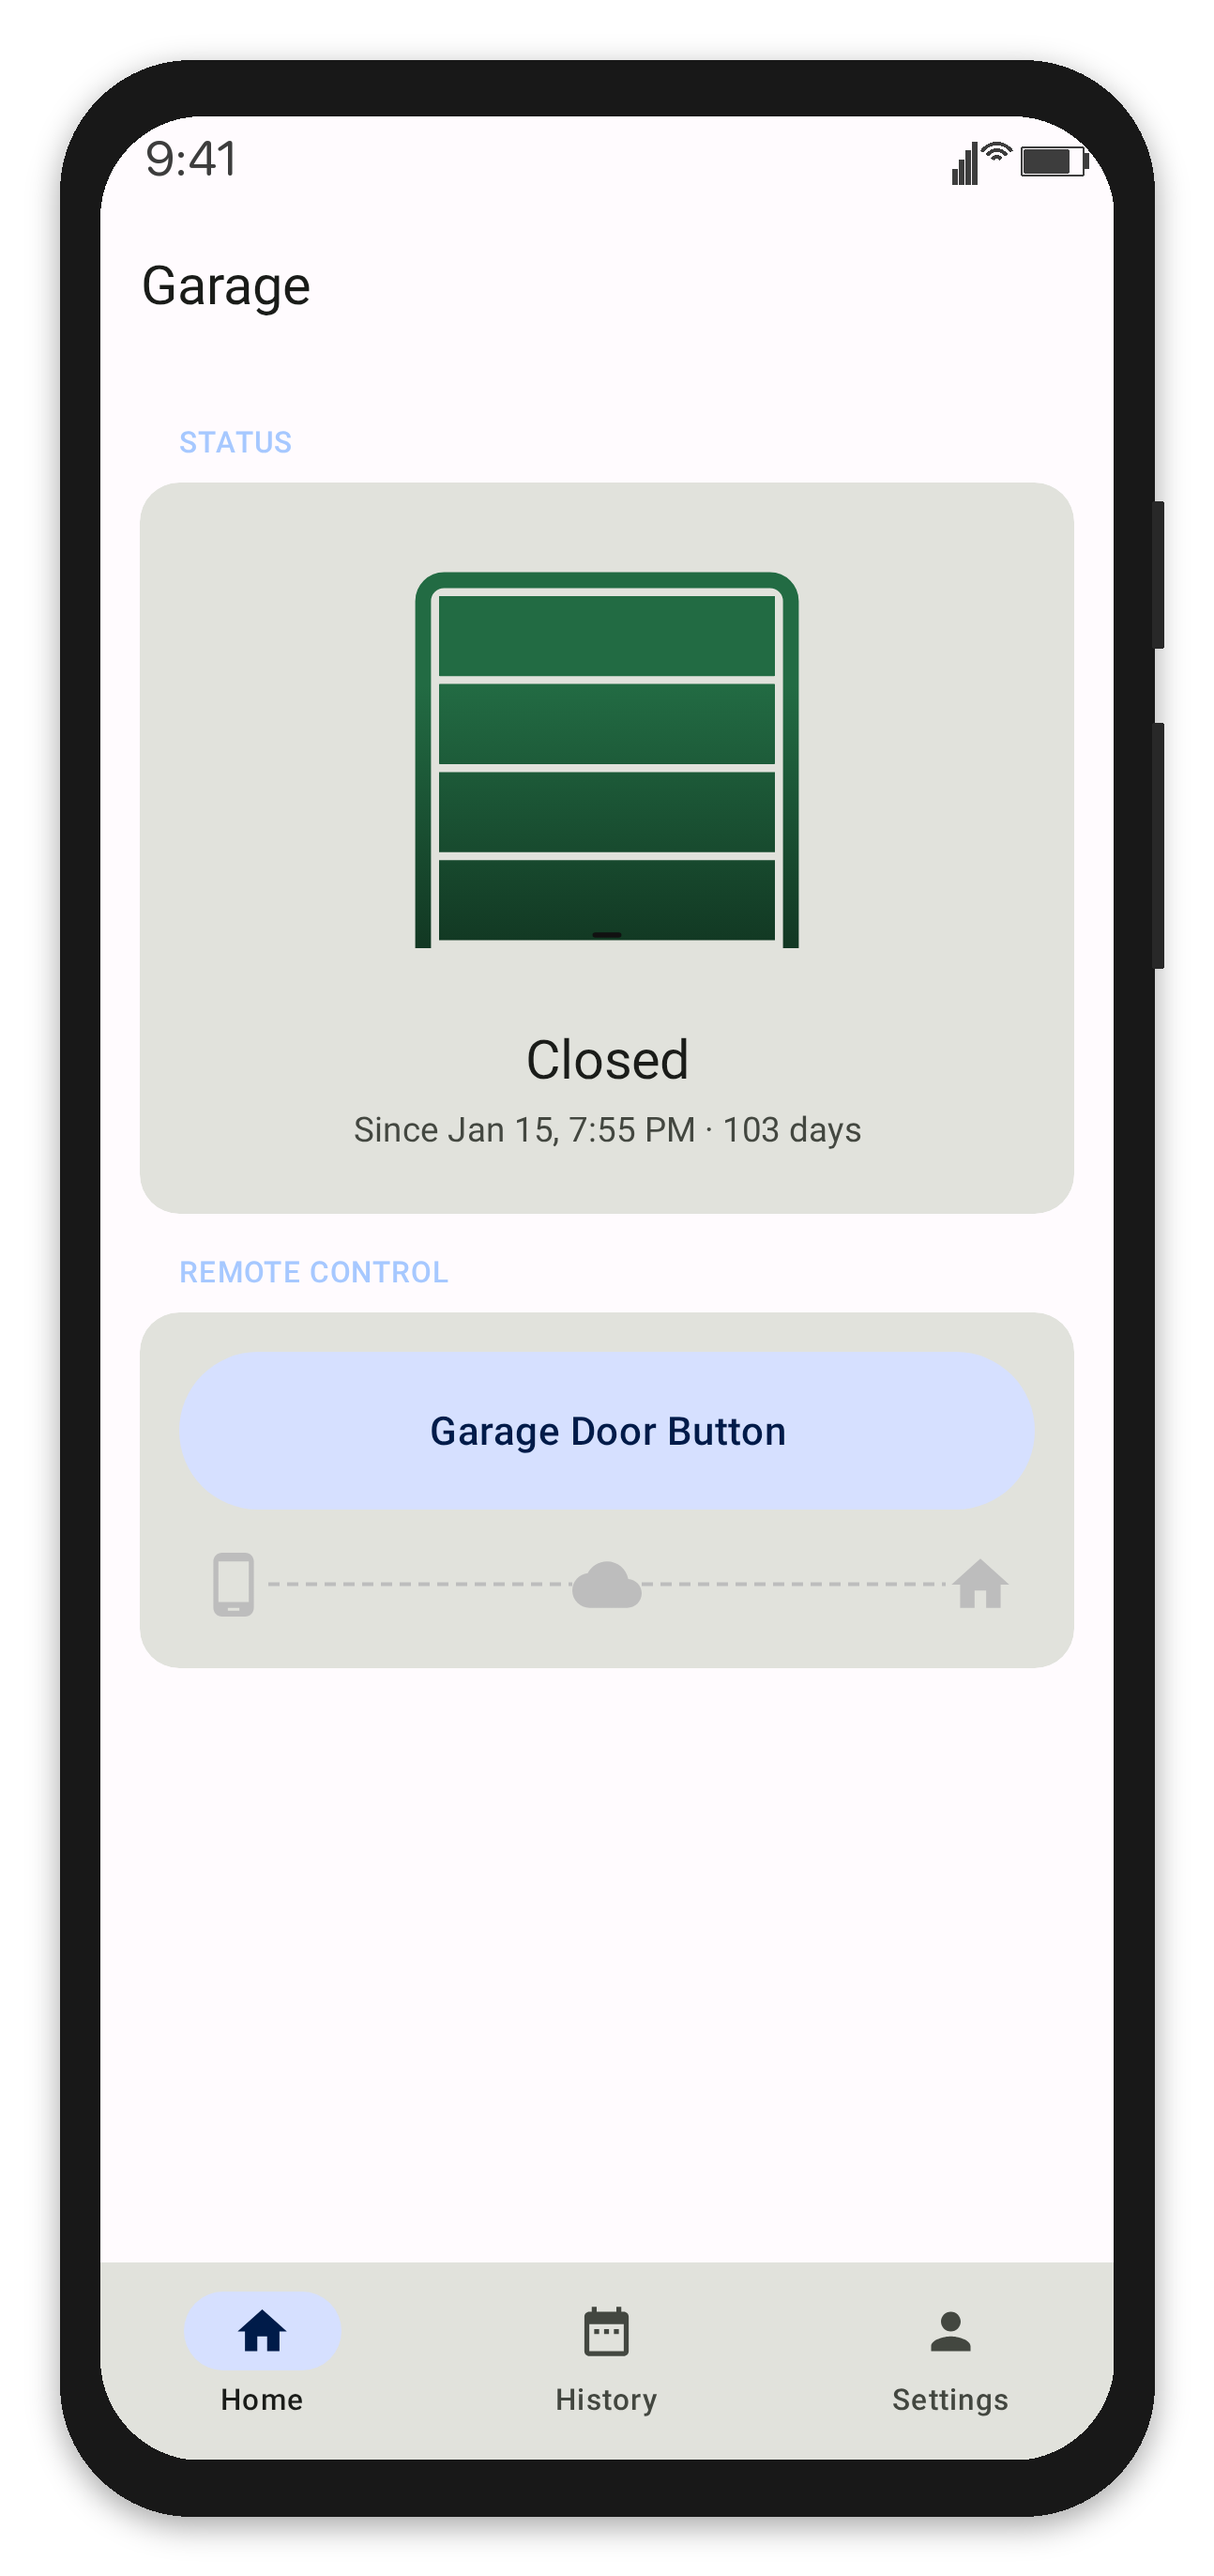
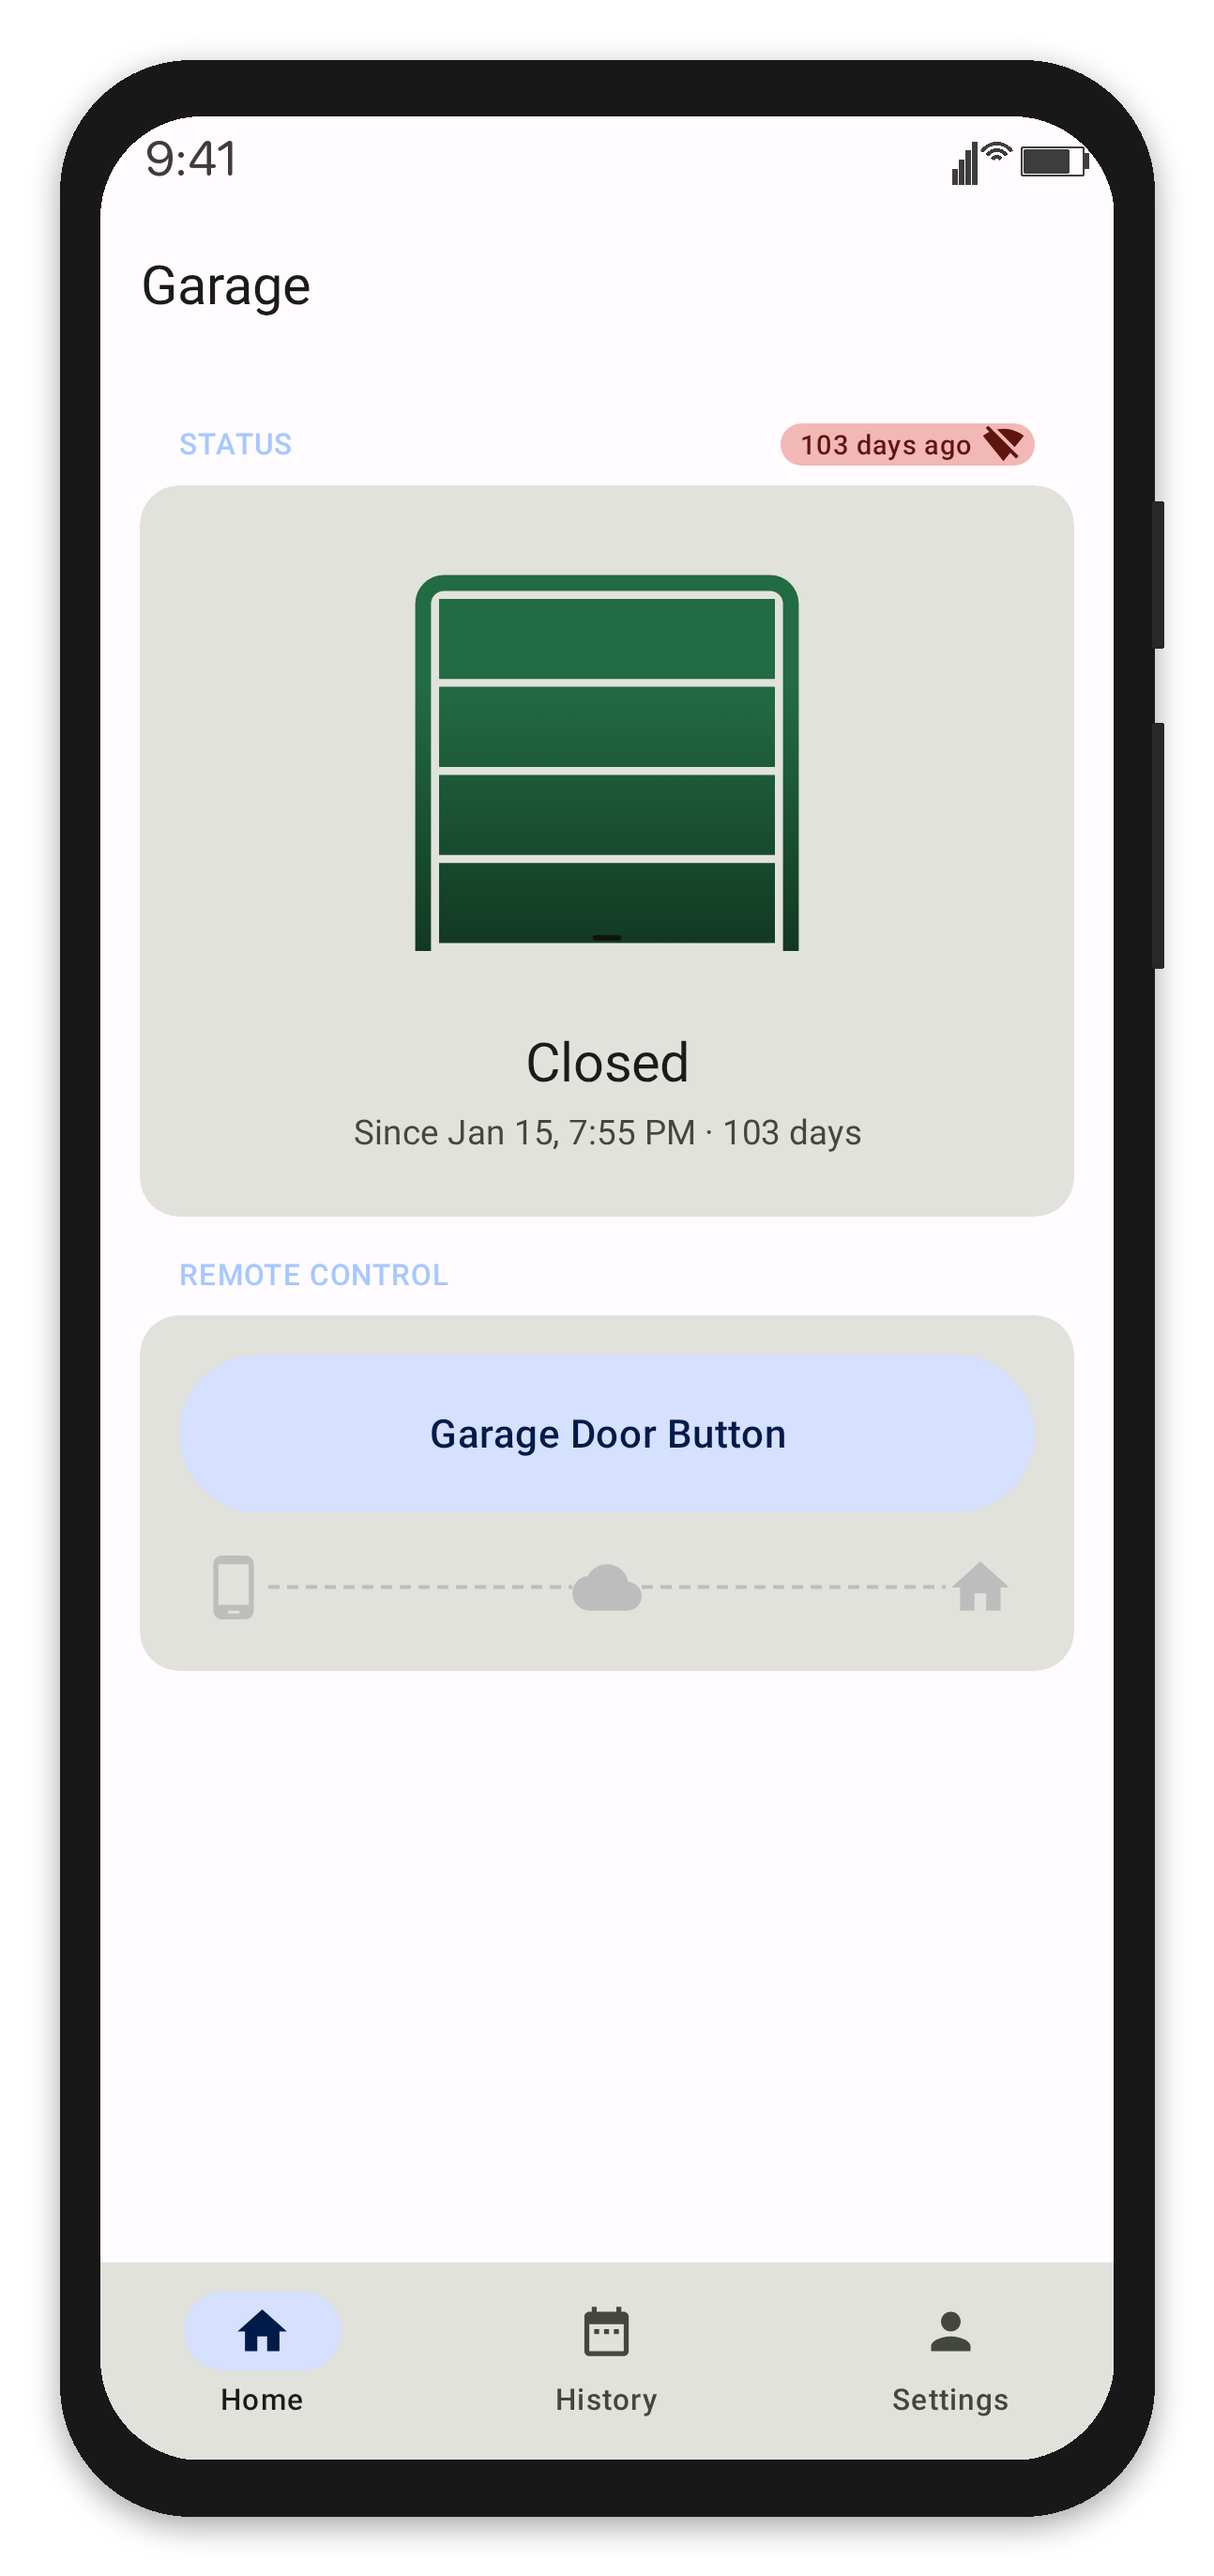
ui(android): Make HomeContent deviceCheckIn required; fix HomeTabPreview pill fidelity
The inner HomeContent's `deviceCheckIn` was nullable with a `null` default,
which let `HomeTabPreview` (the full-tab framed screenshot fixture) render
without the check-in pill while production always shows it. Result: the
framed Home screenshot in the README diverged from what users see.

Two fixes:

1. `HomeTabPreview` now computes a `DeviceCheckIn.format(...)` from the
   demo event and passes it through, mirroring the production wrapper.
   The HomeTabPreviewTest_* references now show the pill in the Status
   header — same look users get.

2. `HomeContent.deviceCheckIn` flips from `DeviceCheckInDisplay? = null`
   to required `DeviceCheckInDisplay`. The type system now stops a
   future fixture from omitting it. The `if (deviceCheckIn != null)`
   guard inside the trailing slot is gone — non-null is the contract.

All other callers (the `HomeContent` wrapper in `ui/`, every preview
helper in `home/HomeContent.kt`) already passed `deviceCheckIn`, so no
production behavior changes.

diff --git a/AndroidGarage/androidApp/src/main/java/com/chriscartland/garage/ui/TabPreviews.kt b/AndroidGarage/androidApp/src/main/java/com/chriscartland/garage/ui/TabPreviews.kt
@@ -36,6 +36,7 @@ import com.chriscartland.garage.domain.model.DoorPosition
 import com.chriscartland.garage.domain.model.LoadingResult
 import com.chriscartland.garage.domain.model.RemoteButtonState
 import com.chriscartland.garage.presentation.demoDoorEvents
+import com.chriscartland.garage.ui.home.DeviceCheckIn
 import com.chriscartland.garage.ui.home.HomeAuthState
 import com.chriscartland.garage.ui.home.HomeMapper
 import com.chriscartland.garage.ui.settings.AccountRowState
@@ -125,12 +126,17 @@ fun HomeTabPreview() {
     val event = demoDoorEvents.firstOrNull()
     val now = Instant.parse("2026-04-29T12:00:00Z")
     val status = HomeMapper.toHomeStatusDisplay(LoadingResult.Complete(event), now, ZoneOffset.UTC)
+    val deviceCheckIn = DeviceCheckIn.format(
+        lastCheckInSeconds = event?.lastCheckInTimeSeconds,
+        nowSeconds = now.epochSecond,
+    )
     TabPreviewScaffold(selectedScreen = Screen.Home) { modifier ->
         HomeStatelessContent(
             status = status,
             authState = HomeAuthState.SignedIn,
             modifier = modifier,
             remoteButtonState = RemoteButtonState.Ready,
+            deviceCheckIn = deviceCheckIn,
         )
     }
 }

diff --git a/AndroidGarage/androidApp/src/main/java/com/chriscartland/garage/ui/home/HomeContent.kt b/AndroidGarage/androidApp/src/main/java/com/chriscartland/garage/ui/home/HomeContent.kt
@@ -149,10 +149,10 @@ sealed interface HomeAlert {
 fun HomeContent(
     status: HomeStatusDisplay,
     authState: HomeAuthState,
+    deviceCheckIn: DeviceCheckInDisplay,
     modifier: Modifier = Modifier,
     remoteButtonState: RemoteButtonState = RemoteButtonState.Ready,
     alerts: List<HomeAlert> = emptyList(),
-    deviceCheckIn: DeviceCheckInDisplay? = null,
     isRefreshing: Boolean = false,
     onRefresh: () -> Unit = {},
     onAlertAction: (HomeAlert) -> Unit = {},
@@ -185,11 +185,7 @@ fun HomeContent(
             item(key = "status") {
                 HomeSection(
                     label = "Status",
-                    trailing = {
-                        if (deviceCheckIn != null) {
-                            TitleBarCheckInPill(display = deviceCheckIn)
-                        }
-                    },
+                    trailing = { TitleBarCheckInPill(display = deviceCheckIn) },
                 ) {
                     HomeStatusCardBody(status = status)
                 }

diff --git a/AndroidGarage/android-screenshot-tests/SCREENSHOT_GALLERY.md b/AndroidGarage/android-screenshot-tests/SCREENSHOT_GALLERY.md
@@ -2,7 +2,7 @@
 
 # Screenshot Gallery
 
-Generated on Sun May  3 15:55:49 PDT 2026
+Generated on Sun May  3 18:11:04 PDT 2026
 
 ## Table of Contents
 - [ComponentsScreenshotTestKt](#componentsscreenshottestkt)
